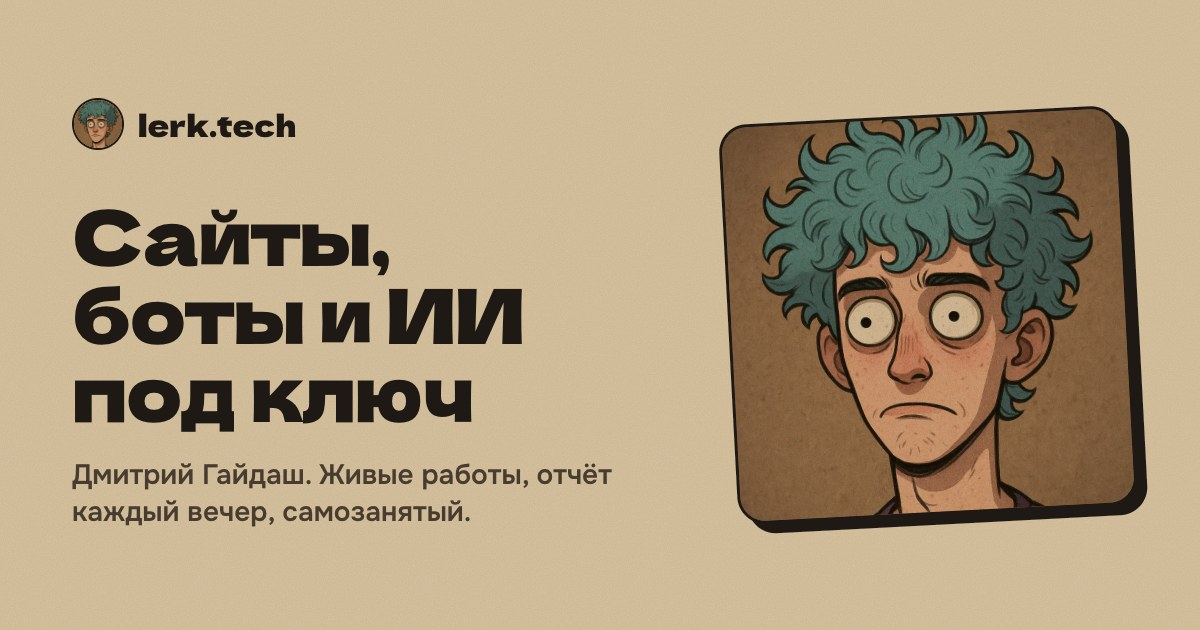
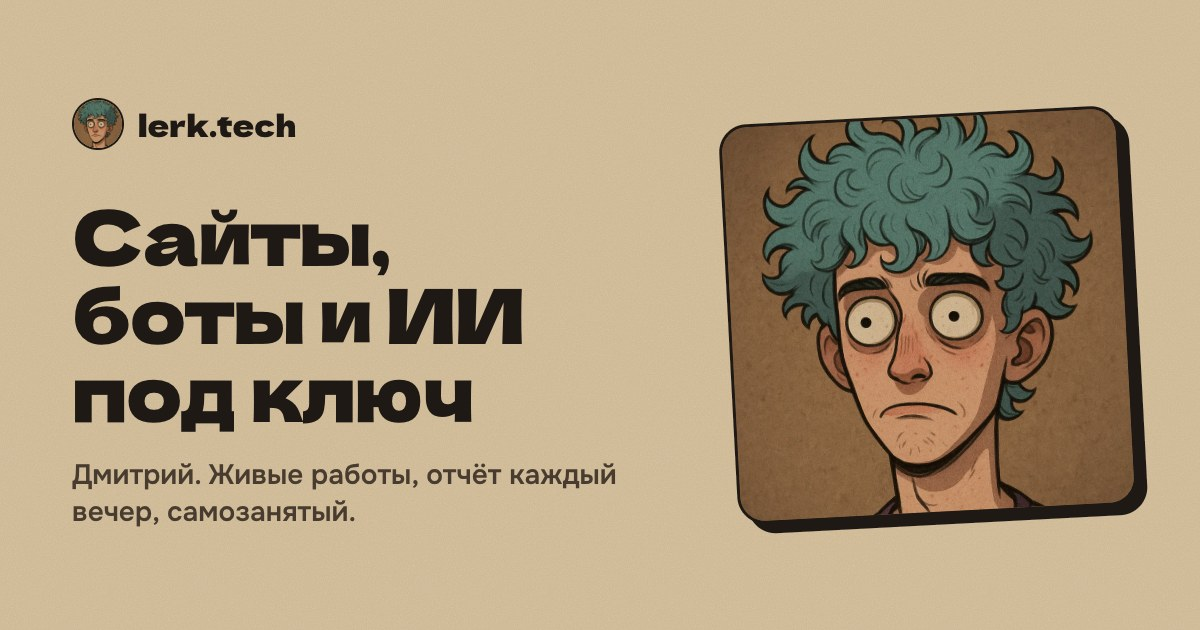
на сайте остаётся только имя Дмитрий, фамилия с публичной страницы убрана

Changed region(s): [[0.0617, 0.7238, 0.5242, 0.8444]]

diff --git a/public/index.html b/public/index.html
@@ -3,7 +3,7 @@
 <head>
   <meta charset="utf-8">
   <meta name="viewport" content="width=device-width, initial-scale=1, viewport-fit=cover">
-  <title>Дмитрий Гайдаш: сайты, боты и ИИ-сервисы под ключ</title>
+  <title>Дмитрий: сайты, боты и ИИ-сервисы под ключ</title>
   <meta name="description" content="Разработчик lerk. Делаю сайты, ботов для Telegram, ВК и MAX, ИИ-генерацию и автоматизацию. Работы: метрика-ребенка.рф, гербсемьи.рф, lodki.site, parkhotelvp.ru. Самозанятый.">
   <link rel="canonical" href="https://lerk.tech/">
   <meta name="theme-color" content="#d9c3a0" media="(prefers-color-scheme: light)">
@@ -14,7 +14,7 @@
   <meta property="og:locale" content="ru_RU">
   <meta property="og:url" content="https://lerk.tech/">
   <meta property="og:site_name" content="lerk.tech">
-  <meta property="og:title" content="Дмитрий Гайдаш: сайты, боты и ИИ-сервисы под ключ">
+  <meta property="og:title" content="Дмитрий: сайты, боты и ИИ-сервисы под ключ">
   <meta property="og:description" content="Сайты, боты и ИИ-функции для бизнеса. Живые работы, отчёт каждый вечер, самозанятый.">
   <meta property="og:image" content="https://lerk.tech/og.jpg">
   <meta property="og:image:width" content="1200">
@@ -44,7 +44,7 @@
   {
     "@context": "https://schema.org",
     "@type": "Person",
-    "name": "Дмитрий Гайдаш",
+    "name": "Дмитрий",
     "alternateName": "lerk",
     "url": "https://lerk.tech/",
     "image": "https://lerk.tech/assets/img/avatar.webp",
@@ -100,7 +100,7 @@
   <section class="hero" id="top" aria-labelledby="hero-title">
     <div class="wrap hero__grid">
       <div class="hero__copy">
-        <p class="hero__hello">Привет, я Дмитрий Гайдаш. В сети меня знают как lerk.</p>
+        <p class="hero__hello">Привет, я Дмитрий. В сети меня знают как lerk.</p>
         <h1 class="hero__title" id="hero-title">Сайты, боты и&nbsp;ИИ под&nbsp;ключ</h1>
         <p class="hero__lead">От формы заявки до оплаты, рассылок и ИИ-генерации. Пишу код вместе с ИИ-агентами, каждую выкладку проверяю сам.</p>
         <div class="hero__cta">
@@ -480,7 +480,7 @@
     <div class="wrap about">
       <div class="about__text">
         <h2 class="section__title" id="about-title">Обо мне</h2>
-        <p>Меня зовут Дмитрий Гайдаш, в сети lerk. Делаю сайты, ботов и ИИ-функции и сам довожу их до запуска: от первой строки кода до сервера, домена и почты.</p>
+        <p>Меня зовут Дмитрий, в сети lerk. Делаю сайты, ботов и ИИ-функции и сам довожу их до запуска: от первой строки кода до сервера, домена и почты.</p>
         <p>Учусь на 2 курсе ДОННУ по направлению «Информатика и вычислительная техника». Для своей группы сделал расписание донну.рф, теперь там и другие группы университета.</p>
         <p>Кроме заказов веду свои проекты: метрика-ребенка.рф, портал сс14.рф и Discord-бота для сервера Star Horizon.</p>
 
@@ -615,7 +615,7 @@
 
       <div class="rekv reveal">
         <dl class="rekv__list">
-          <div><dt>ФИО</dt><dd>Гайдаш Дмитрий Павлович</dd></div>
+          <div><dt>Имя</dt><dd>Дмитрий</dd></div>
           <div><dt>ИНН</dt><dd>614328597388</dd></div>
           <div><dt>Статус</dt><dd>Самозанятый, плательщик налога на профессиональный доход. <a href="https://npd.nalog.ru/check-status/" rel="noopener">Проверить на сайте ФНС</a></dd></div>
           <div>
@@ -634,7 +634,7 @@
         <a class="rekv__stamp" href="mailto:lerk@joulerk.ru" aria-label="Печать самозанятого с QR-кодом, написать на lerk@joulerk.ru">
           <!-- stamp:start -->
           <svg class="stamp" viewBox="0 0 240 240" role="img" aria-labelledby="stamp-title">
-            <title id="stamp-title">Печать самозанятого: Гайдаш Дмитрий Павлович, ИНН 614328597388, плательщик НПД. QR-код открывает письмо на lerk@joulerk.ru</title>
+            <title id="stamp-title">Печать самозанятого: Дмитрий, ИНН 614328597388, плательщик НПД. QR-код открывает письмо на lerk@joulerk.ru</title>
             <defs>
               <path id="stamp-top" d="M30 120A90 90 0 0 1 210 120"/>
               <path id="stamp-bottom" d="M19 120A101 101 0 0 0 221 120"/>
@@ -652,7 +652,7 @@
               <circle cx="120" cy="120" r="64" fill="none" stroke-width="1.4"/>
               <circle cx="25" cy="120" r="2.6"/>
               <circle cx="215" cy="120" r="2.6"/>
-              <text class="stamp__big"><textPath href="#stamp-top" startOffset="50%" text-anchor="middle">Гайдаш Дмитрий Павлович</textPath></text>
+              <text class="stamp__big"><textPath href="#stamp-top" startOffset="50%" text-anchor="middle">Дмитрий</textPath></text>
               <text class="stamp__big"><textPath href="#stamp-bottom" startOffset="50%" text-anchor="middle">ИНН 614328597388</textPath></text>
               <text class="stamp__small"><textPath href="#stamp-ring" textLength="436.11" lengthAdjust="spacing">РОССИЙСКАЯ ФЕДЕРАЦИЯ • ПЛАТЕЛЬЩИК НПД • САМОЗАНЯТЫЙ • </textPath></text>
             </g>
@@ -668,7 +668,7 @@
 
 <footer class="foot">
   <div class="wrap foot__row">
-    <p>Гайдаш Дмитрий Павлович, самозанятый, ИНН 614328597388. <a href="#rekvizity">Реквизиты</a></p>
+    <p>Дмитрий, самозанятый, ИНН 614328597388. <a href="#rekvizity">Реквизиты</a></p>
     <p>© 2026 lerk.tech</p>
   </div>
 </footer>

diff --git a/tools/og.html b/tools/og.html
@@ -18,7 +18,7 @@
     <div>
       <div class="og__site"><img src="../public/assets/img/avatar-sm.webp" alt=""><span>lerk.tech</span></div>
       <h1>Сайты, боты и&nbsp;ИИ под&nbsp;ключ</h1>
-      <p>Дмитрий Гайдаш. Живые работы, отчёт каждый вечер, самозанятый.</p>
+      <p>Дмитрий. Живые работы, отчёт каждый вечер, самозанятый.</p>
     </div>
     <div class="og__pic"><div class="stack__avatar"><img src="../public/assets/img/avatar.webp" alt=""></div></div>
   </div>

diff --git a/docs/site.md b/docs/site.md
@@ -14,7 +14,7 @@
 | `#process` | Как работаю | 5 шагов, пример вечернего отчёта, заметка про разработку с ИИ |
 | `#about` | Обо мне | о себе, открытый код на GitHub, статус, часовой пояс, стек |
 | `#contact` | Расскажите о задаче | каналы связи и форма «Соберите задачу» |
-| `#rekvizity` | Реквизиты | ФИО, ИНН, статус НПД со ссылкой на проверку ФНС, виды деятельности, почта; синяя печать с QR на почту |
+| `#rekvizity` | Реквизиты | имя «Дмитрий», ИНН, статус НПД со ссылкой на проверку ФНС, виды деятельности, почта; синяя печать с QR на почту |
 
 Метка у каждой работы: «Свой проект» (метрика, донну.рф, сс14.рф и LERK Bot) или «Для заказчика» (всё остальное).
 Имени заказчика и названия студии на странице нет: показаны только проекты и что в них сделано.
@@ -35,7 +35,7 @@
 | Почта | lerk@joulerk.ru |
 | ВКонтакте | https://vk.com/ca7ana |
 | GitHub | https://github.com/LerkOFF |
-| Подвал | ФИО, самозанятый, ИНН 614328597388, ссылка на проверку статуса НПД |
+| Подвал | имя «Дмитрий», самозанятый, ИНН 614328597388, ссылка на реквизиты |
 
 Меняется контакт: поправить `index.html` (шапка, первый экран, «Обо мне», «Контакты», JSON-LD в `<head>`),
 константы `TG_USER` и `MAIL` в `main.js`, карточку в Obsidian.
@@ -70,7 +70,7 @@
 ## Печать самозанятого
 
 Печать в разделе «Реквизиты» собирает `node tools/build_stamp.mjs` и вставляет в `index.html` между
-`<!-- stamp:start -->` и `<!-- stamp:end -->`. По кругу ФИО, ИНН и «Российская Федерация, плательщик НПД, самозанятый»,
+`<!-- stamp:start -->` и `<!-- stamp:end -->`. По кругу имя «Дмитрий», ИНН и «Российская Федерация, плательщик НПД, самозанятый»,
 в центре QR с `mailto:lerk@joulerk.ru`, как у печатей самозанятых в реестре. Текст и адрес QR меняются в начале скрипта.
 Цвет чернил: `--stamp-ink` в `style.css`. В тёмной теме QR тёмный на светлом квадрате, чтобы его читали все камеры.
 `tools/smoke.mjs` снимает печать и распознаёт QR (jsQR) в обеих темах.

diff --git a/README.md b/README.md
@@ -1,6 +1,6 @@
 # lerk.tech
 
-Исходники [lerk.tech](https://lerk.tech) — личного сайта Дмитрия Гайдаша. Лендинг рассказывает о разработке сайтов, ботов, ИИ-функций и интеграций, показывает работы и даёт возможность связаться напрямую.
+Исходники [lerk.tech](https://lerk.tech) — личного сайта Дмитрия. Лендинг рассказывает о разработке сайтов, ботов, ИИ-функций и интеграций, показывает работы и даёт возможность связаться напрямую.
 
 Сайт статический: для просмотра и выкладки не нужны сборка, база данных или серверное приложение. Форма «Соберите задачу» составляет сообщение и открывает Telegram или почтовую программу. Данные формы не отправляются на сервер сайта и не сохраняются.
 
